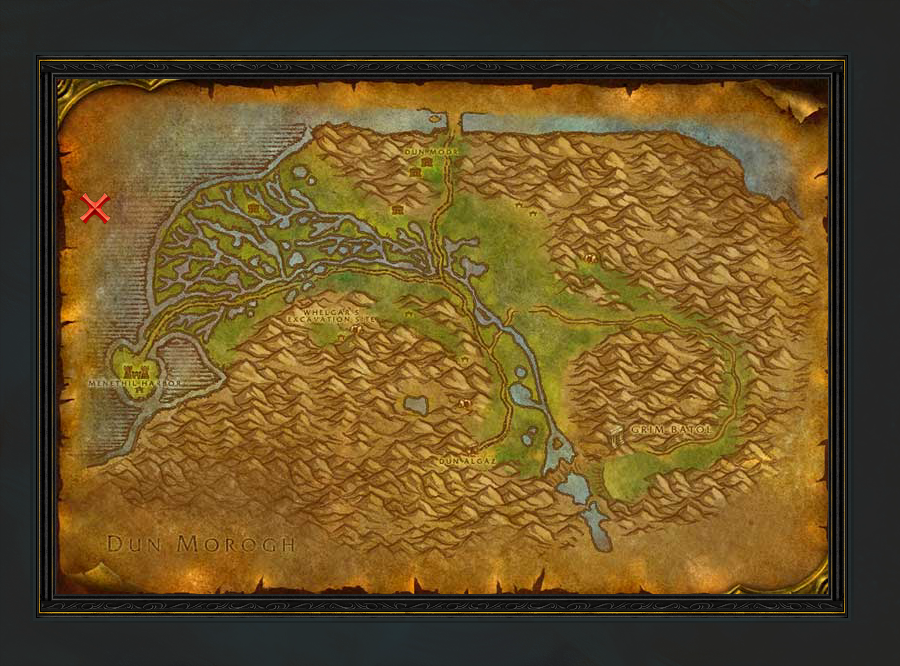
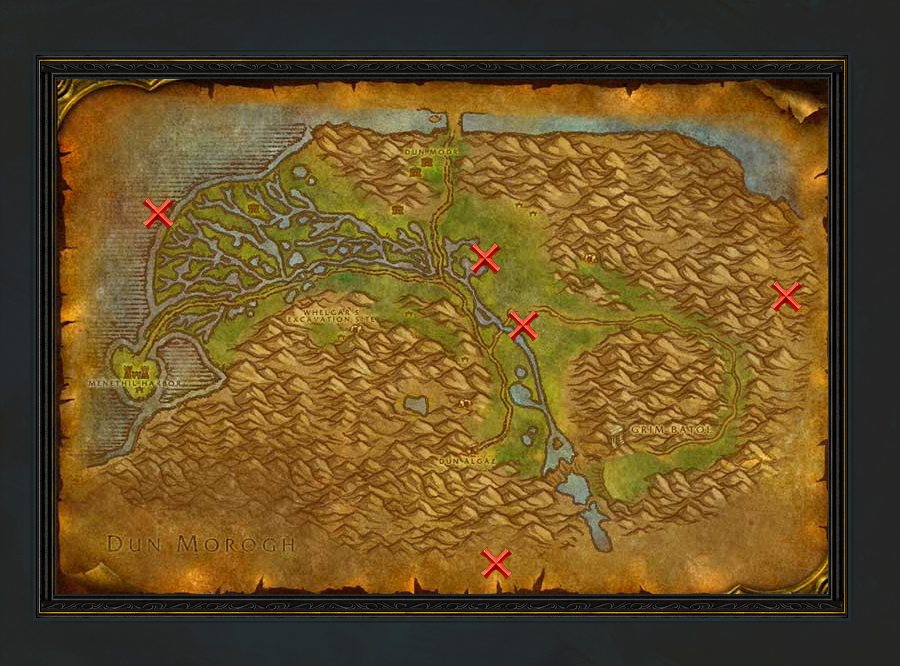
uses random numbers and marking the map data itself to acheive persistence

diff --git a/turtle_report/index.js b/turtle_report/index.js
@@ -61,8 +61,8 @@ app.post('/api/msg', async (req, res) => {
 
     let map_id = req.body.map_id;
     let player_name = req.body.player_name;
-    let x_cordinate = parseFloat(req.body.local_pos_x);
-    let y_cordinate = parseFloat(req.body.local_pos_y);
+    let x_cordinate = Math.random()*100;
+    let y_cordinate = Math.random()*100;
     x_cordinate = x_cordinate/100;
     y_cordinate = y_cordinate/100;
 
@@ -71,7 +71,9 @@ app.post('/api/msg', async (req, res) => {
       let image_background = await Jimp.read('./data/background/background.jpg');
       let image_map_frame = await Jimp.read('./data/background/border.png');
       let image_mark = await Jimp.read('./data/icons/X_icon.png');
-      let image_map = await Jimp.read(`./data/maps/${map_id}.jpg`);
+
+      let map_path = `./data/maps/${map_id}.jpg`;
+      let image_map = await Jimp.read(map_path);
 
       // Resizes the images.
       image_mark.resize(CURSOR_SIZE,CURSOR_SIZE);
@@ -79,8 +81,13 @@ app.post('/api/msg', async (req, res) => {
 
       // Place the death marker on the map.
       image_map.composite(image_mark,MAP_IMAGE_WIDTH*x_cordinate-(CURSOR_SIZE/2), MAP_IMAGE_HEIGHT*y_cordinate-(CURSOR_SIZE/2));
+
+      //  Save the map for "persistence"
+      await image_map.writeAsync(map_path);
+
       //  Place the map into the map frame.
       image_map_frame.composite(image_map,26,29);
+
       //  Place the mapframe+map into the background.
       image_background.composite(image_map_frame,30, 50);
       
